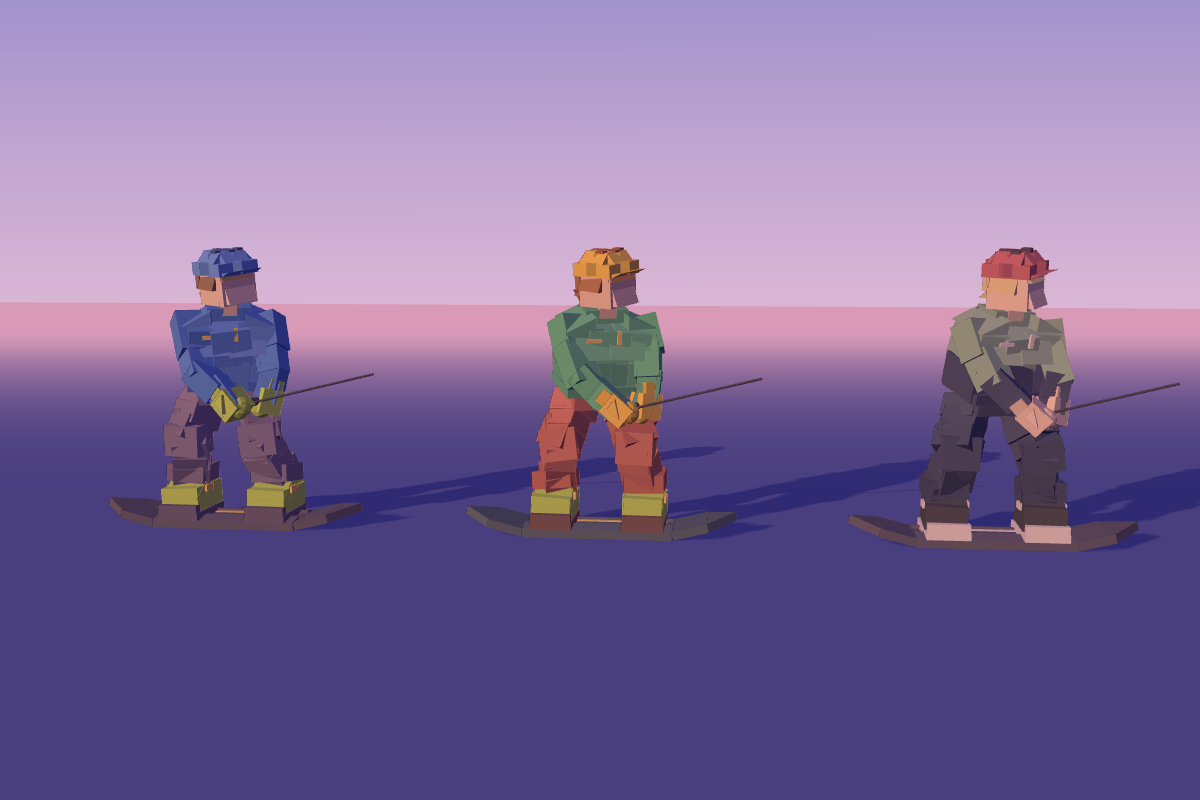
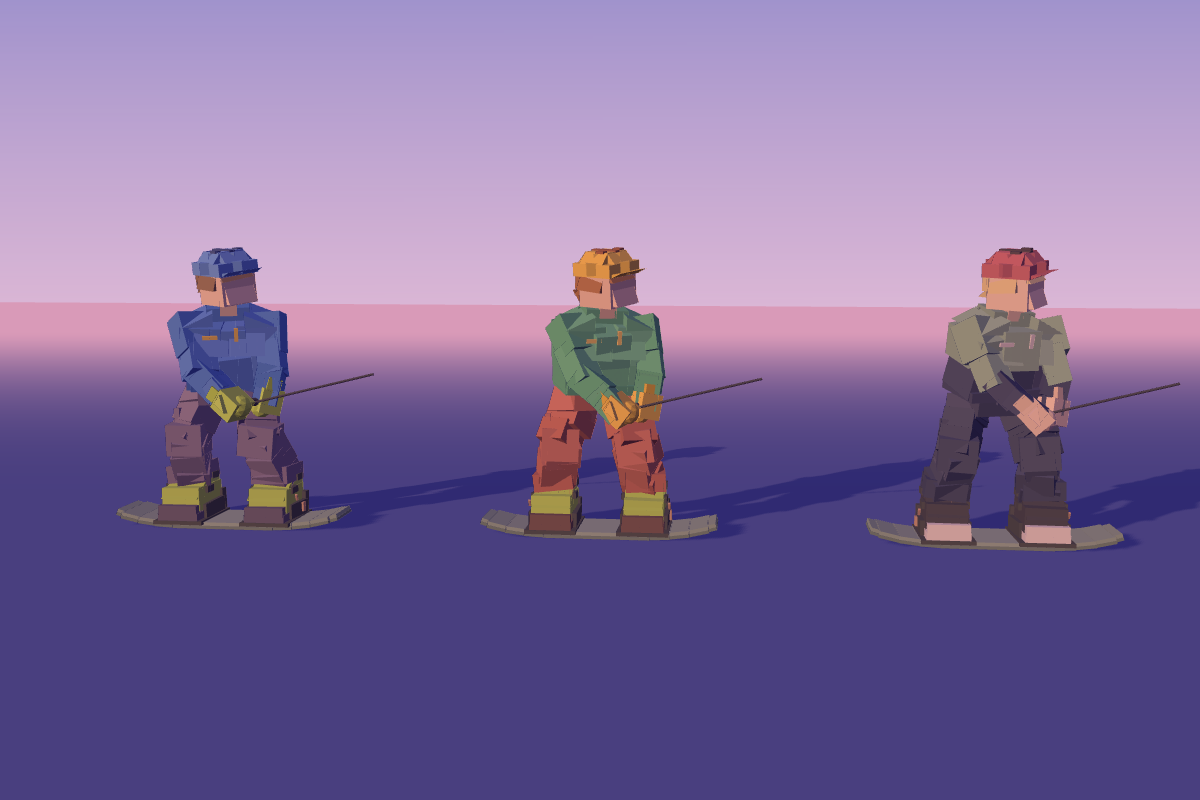
Add Sage board style from the board reference
Board shape is now a faceted rocker chain (3, 7, 13 degrees) with a
darker rail layer and rounded-square end caps. New BoardStyles table:
Sage (default: sage deck, black bindings with copper buckles, inserts,
handle slot, pale slash graphic on the base) and Classic (the previous
charcoal board). Bindings add a plate, heel cup, side walls, ankle strap
and buckles. Tests cover both styles and the rocker.

Claude-Session: https://claude.ai/code/session_01A5djq1K2cdHBdqaSEBiZ1P

diff --git a/cable-wakeboard/roblox/README.md b/cable-wakeboard/roblox/README.md
@@ -42,6 +42,7 @@ local rider = RiderBuilder.build({
 	palette = "B", -- "A", "B", "Sheet", or a full palette table
 	proportions = { HeadSize = 0.9, BootSize = 1.15 }, -- any CONFIG.Proportions key
 	accessories = { Ponytail = true }, -- Helmet, Hair, Ponytail, Handle, Board
+	board = "Sage", -- "Sage" (default), "Classic", or a full BoardStyle table
 	seed = 3, -- facet layout; same seed, same rider
 })
 rider:PivotTo(CFrame.new(0, 0.05, 0))
@@ -71,6 +72,16 @@ All colours and proportions are in the `CONFIG` table at the top of
   wedge, vents.
 - Oversized gloves and boots, thick baggy legs with a knee bend, a bevelled
   board with rocker and a tow handle in both hands.
+
+Boards (`CONFIG.Board` for the shape, `CONFIG.BoardStyles` for colourways):
+**Sage** (default, from the user's board reference: sage green deck, darker
+rail layer, black bindings with copper buckles, insert dots, a handle slot and
+a pale slash graphic on the base; the reference's logo and sticker are left
+out) and **Classic** (charcoal with an accent stripe, no binding hardware).
+The rocker is a chain of segments turned up 3, 7 and 13 degrees, and the tips
+step in with a narrower end cap for a rounded-square outline.
+
+![Sage board: top, base, side, three-quarter](docs/board-preview.png)
 
 Palettes: **A** (royal blue jacket, purple-grey pants, lime gloves and boots,
 blue helmet), **B** (green jacket, brick red pants, yellow-orange accents,
